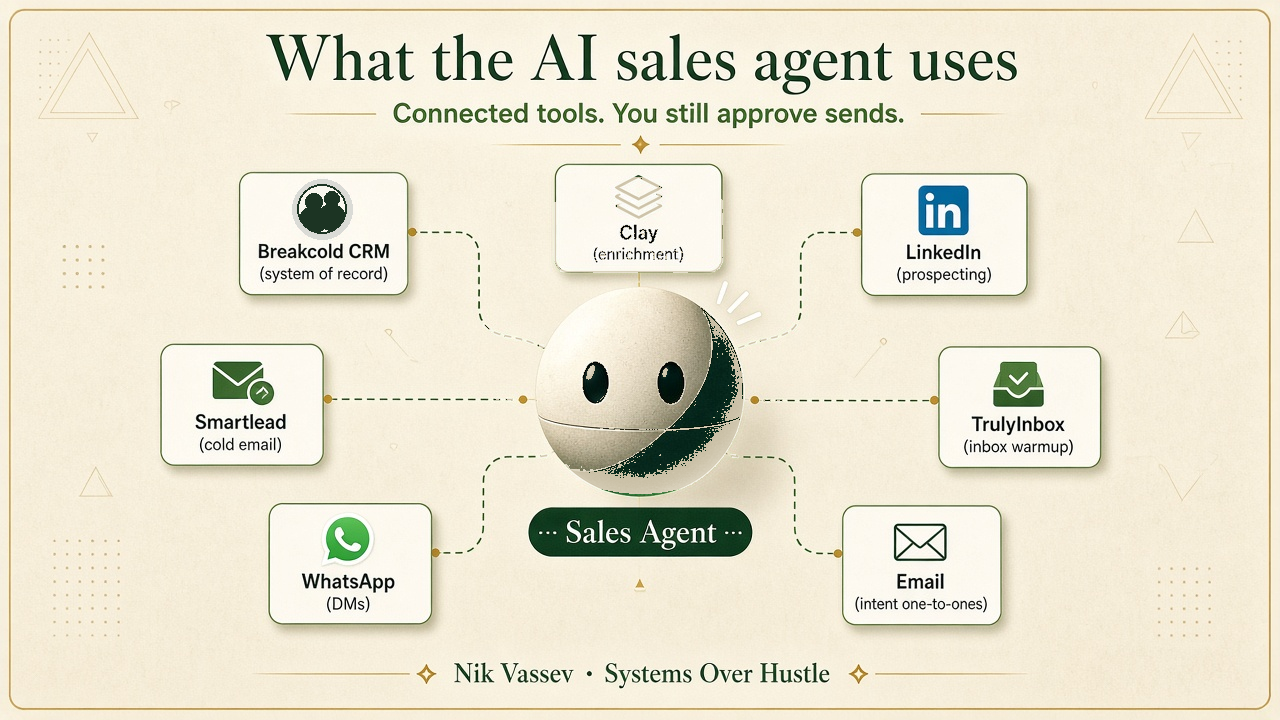
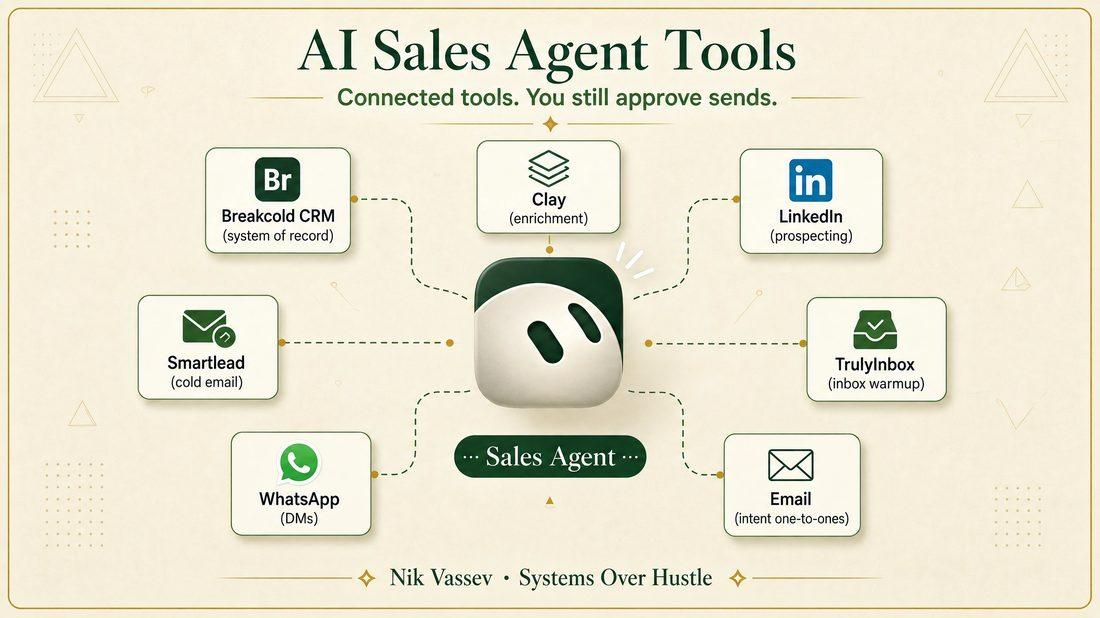
Replace the guide diagrams with the Doc exports.
Overwrite both public PNGs with the inline images from the locked Google Doc and label the tools figure AI Sales Agent Tools.

diff --git a/src/content/guides/ai-sales-agent.tsx b/src/content/guides/ai-sales-agent.tsx
@@ -204,8 +204,8 @@ export function GuideBody() {
           <GuideFigure
             src="/photos/guides/ai-sales-agent/basho-anatomy.png"
             alt="The anatomy of a Basho email: hyper-personalized subject, the hook, the value hook, and a soft CTA, plus a comparison with traditional cold email. Under 90 words."
-            width={1280}
-            height={720}
+            width={1100}
+            height={618}
             caption="The anatomy of a Basho email. Under 90 words. Precision over volume."
           />
           <h3>The anatomy (under 90 words, precision over volume)</h3>
@@ -336,17 +336,17 @@ export function GuideBody() {
       <GuideReveal>
         <section className="guide-section" aria-labelledby="tools">
           <p className="guide-kicker">07</p>
-          <h2 id="tools">What the AI sales agent uses</h2>
+          <h2 id="tools">AI Sales Agent Tools</h2>
           <p>
             Give every tool one job so the agent cannot hide truth in the wrong
             app. Connect only what you will actually use this month.
           </p>
           <GuideFigure
             src="/photos/guides/ai-sales-agent/ai-sales-agent-tools.png"
-            alt="What the AI sales agent uses. Connected tools around a Sales Agent hub: Breakcold CRM, Clay, LinkedIn, Smartlead, TrulyInbox, WhatsApp, and Email. You still approve sends."
-            width={1280}
-            height={720}
-            caption="What the AI sales agent uses. Connected tools. You still approve sends."
+            alt="AI Sales Agent Tools. Connected tools around a Sales Agent hub: Breakcold CRM, Clay, LinkedIn, Smartlead, WhatsApp, TrulyInbox, and Email. You still approve sends."
+            width={1100}
+            height={618}
+            caption="AI Sales Agent Tools. Connected tools. You still approve sends."
           />
           <ul className="guide-tools">
             <li className="guide-tool">

diff --git a/src/lib/guides.ts b/src/lib/guides.ts
@@ -132,7 +132,7 @@ export const longGuides: LongGuide[] = [
       { id: "basho", label: "How Basho emails work" },
       { id: "skills", label: "Skills to install" },
       { id: "routines", label: "Routines to schedule" },
-      { id: "tools", label: "What the AI sales agent uses" },
+      { id: "tools", label: "AI Sales Agent Tools" },
       { id: "setup", label: "Setup on Grok Bot" },
       { id: "what-you-approve", label: "What the founder still approves" },
       { id: "conclusion", label: "What you walk away with" },
